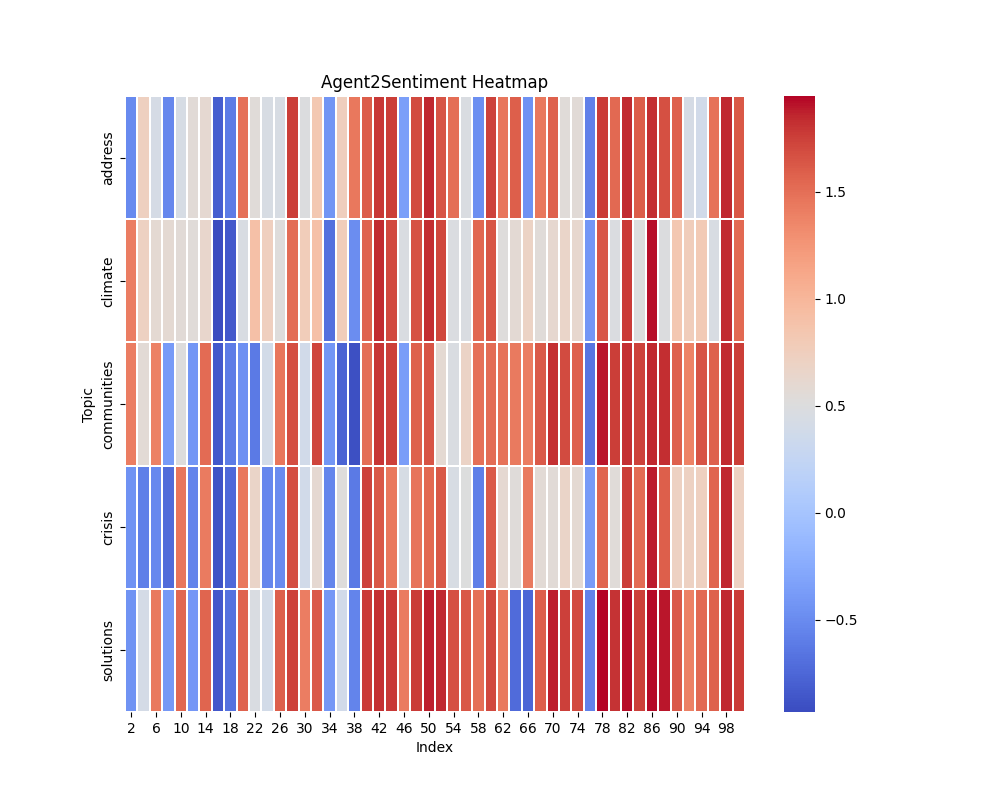
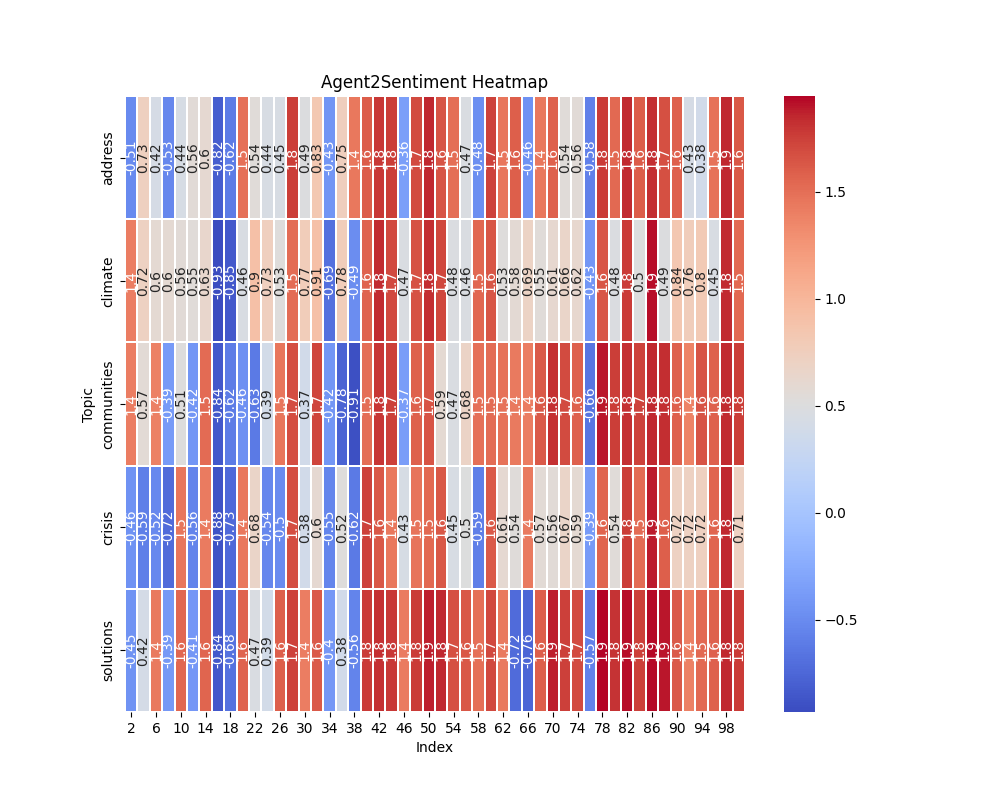
Viz Changes

diff --git a/agent_heatmap.py b/agent_heatmap.py
@@ -30,7 +30,7 @@ def create_sentiment_heatmap(df,agent,path):
     # Create a heatmap
     plt.figure(figsize=(10, 8))
     sns.heatmap(heatmap_data,
-                cmap="coolwarm", annot=False,linewidths=0.01)
+                cmap="coolwarm", annot=True,linewidths=0.01,annot_kws={'rotation': 90})
     plt.title(agent+'Sentiment Heatmap')
     plt.savefig(path)
     plt.show()
